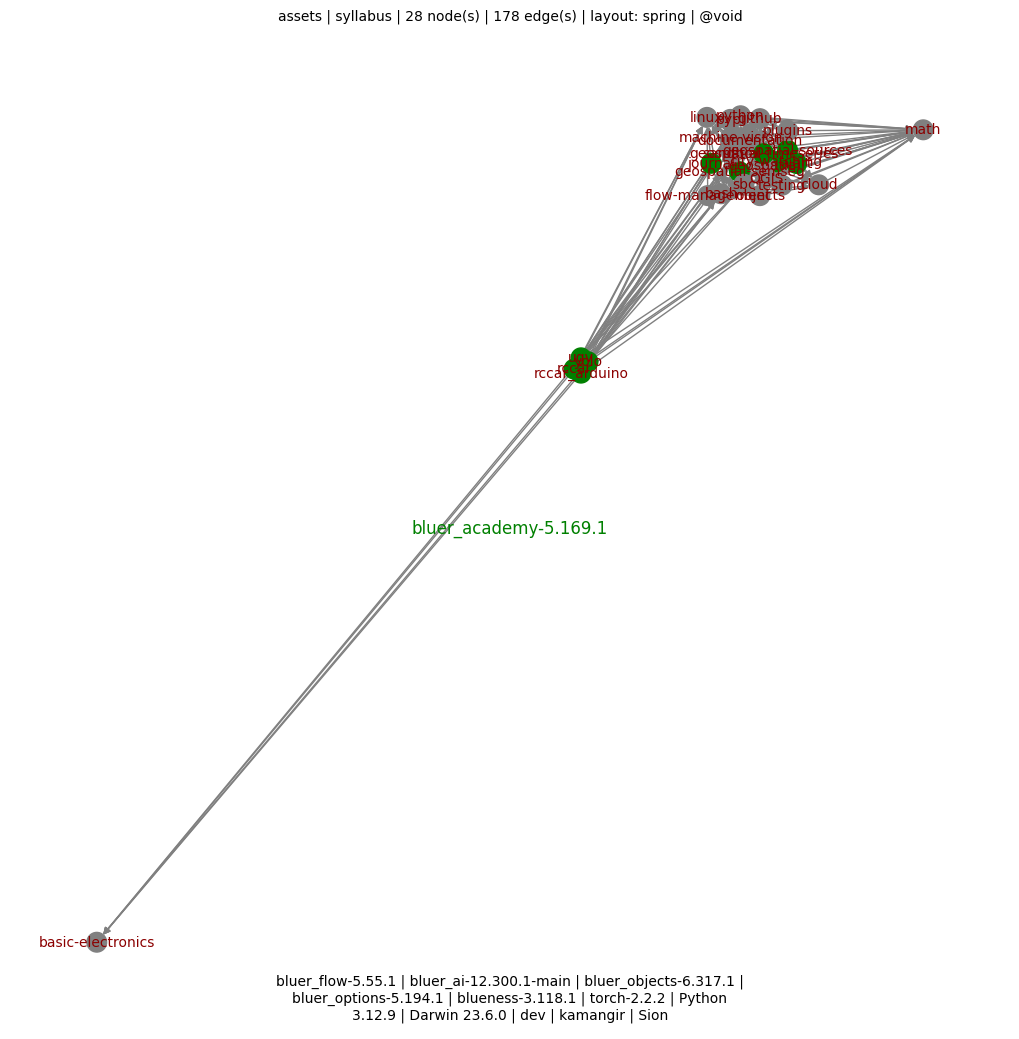
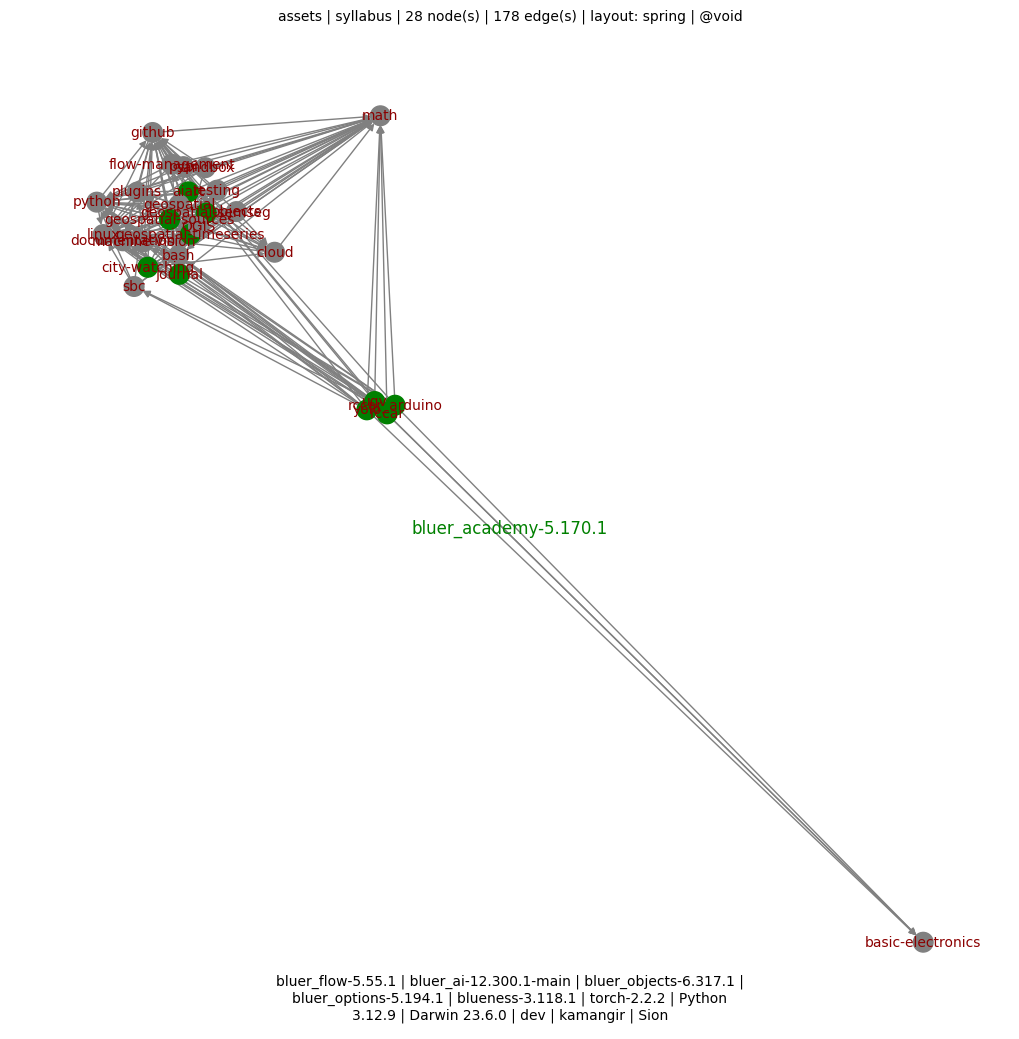
++ - kamangir/bolt#746

diff --git a/bluer_academy/academy/syllabus/QGIS.py b/bluer_academy/academy/syllabus/QGIS.py
@@ -16,11 +16,7 @@ topic = Topic(
     requires="geospatial",
     items={
         assets_url(
-            suffix,
-        ): f"{bluer_geo_blob}/QGIS"
-        for suffix in [
             "blue-geo/QGIS.png",
-            "blue-geo/QGIS-python-console.png",
-        ]
+        ): f"{bluer_geo_blob}/QGIS"
     },
 )

diff --git a/bluer_academy/__init__.py b/bluer_academy/__init__.py
@@ -4,7 +4,7 @@ ICON = "📐"
 
 DESCRIPTION = f"{ICON} an academy for practical AI in Iran."
 
-VERSION = "5.169.1"
+VERSION = "5.170.1"
 
 REPO_NAME = "bluer-academy"
 

diff --git a/README.md b/README.md
@@ -15,4 +15,4 @@ pip install bluer-academy
 
 [![pylint](https://github.com/kamangir/bluer-academy/actions/workflows/pylint.yml/badge.svg)](https://github.com/kamangir/bluer-academy/actions/workflows/pylint.yml) [![pytest](https://github.com/kamangir/bluer-academy/actions/workflows/pytest.yml/badge.svg)](https://github.com/kamangir/bluer-academy/actions/workflows/pytest.yml) [![bashtest](https://github.com/kamangir/bluer-academy/actions/workflows/bashtest.yml/badge.svg)](https://github.com/kamangir/bluer-academy/actions/workflows/bashtest.yml) [![PyPI version](https://img.shields.io/pypi/v/bluer-academy.svg)](https://pypi.org/project/bluer-academy/) [![PyPI - Downloads](https://img.shields.io/pypi/dd/bluer-academy)](https://pypistats.org/packages/bluer-academy)
 
-built by 🌀 [`bluer README`](https://github.com/kamangir/bluer-objects/tree/main/bluer_objects/README), based on 📐 [`bluer_academy-5.169.1`](https://github.com/kamangir/bluer-academy).
+built by 🌀 [`bluer README`](https://github.com/kamangir/bluer-objects/tree/main/bluer_objects/README), based on 📐 [`bluer_academy-5.170.1`](https://github.com/kamangir/bluer-academy).

diff --git a/bluer_academy/docs/academy/syllabus/QGIS.md b/bluer_academy/docs/academy/syllabus/QGIS.md
@@ -15,6 +15,6 @@ includes:
 
 ⏳ duration (hours): 3.0 - including requirements: 54.0
 
-|   |   |
-| --- | --- |
-| [![image](https://github.com/kamangir/assets/raw/main/blue-geo/QGIS.png?raw=true)](https://github.com/kamangir/bluer-geo/blob/main/bluer_geo/QGIS) | [![image](https://github.com/kamangir/assets/raw/main/blue-geo/QGIS-python-console.png?raw=true)](https://github.com/kamangir/bluer-geo/blob/main/bluer_geo/QGIS) |
+|   |
+| --- |
+| [![image](https://github.com/kamangir/assets/raw/main/blue-geo/QGIS.png?raw=true)](https://github.com/kamangir/bluer-geo/blob/main/bluer_geo/QGIS) |
